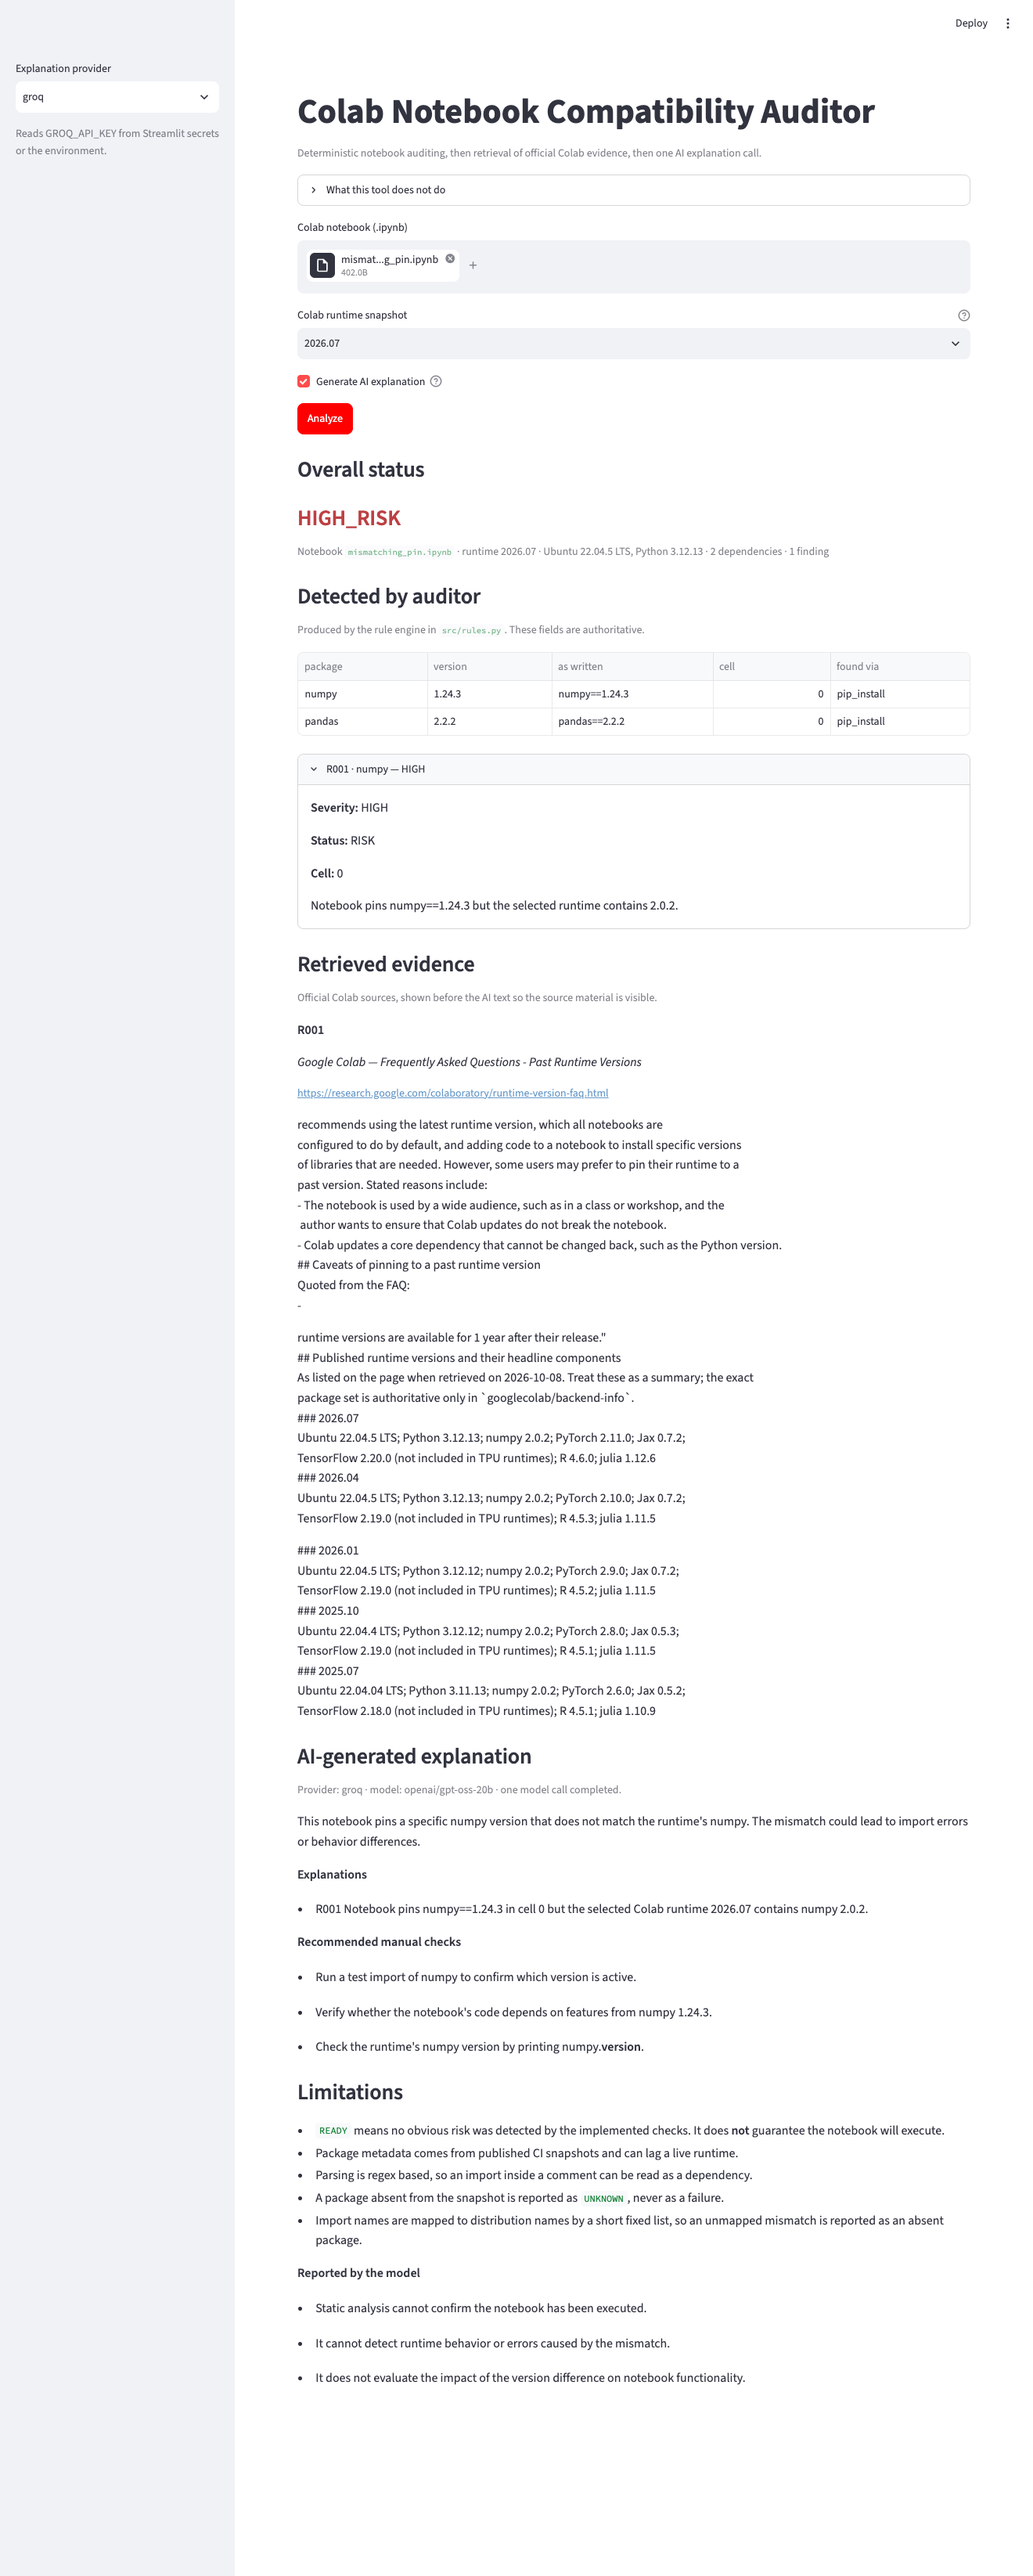
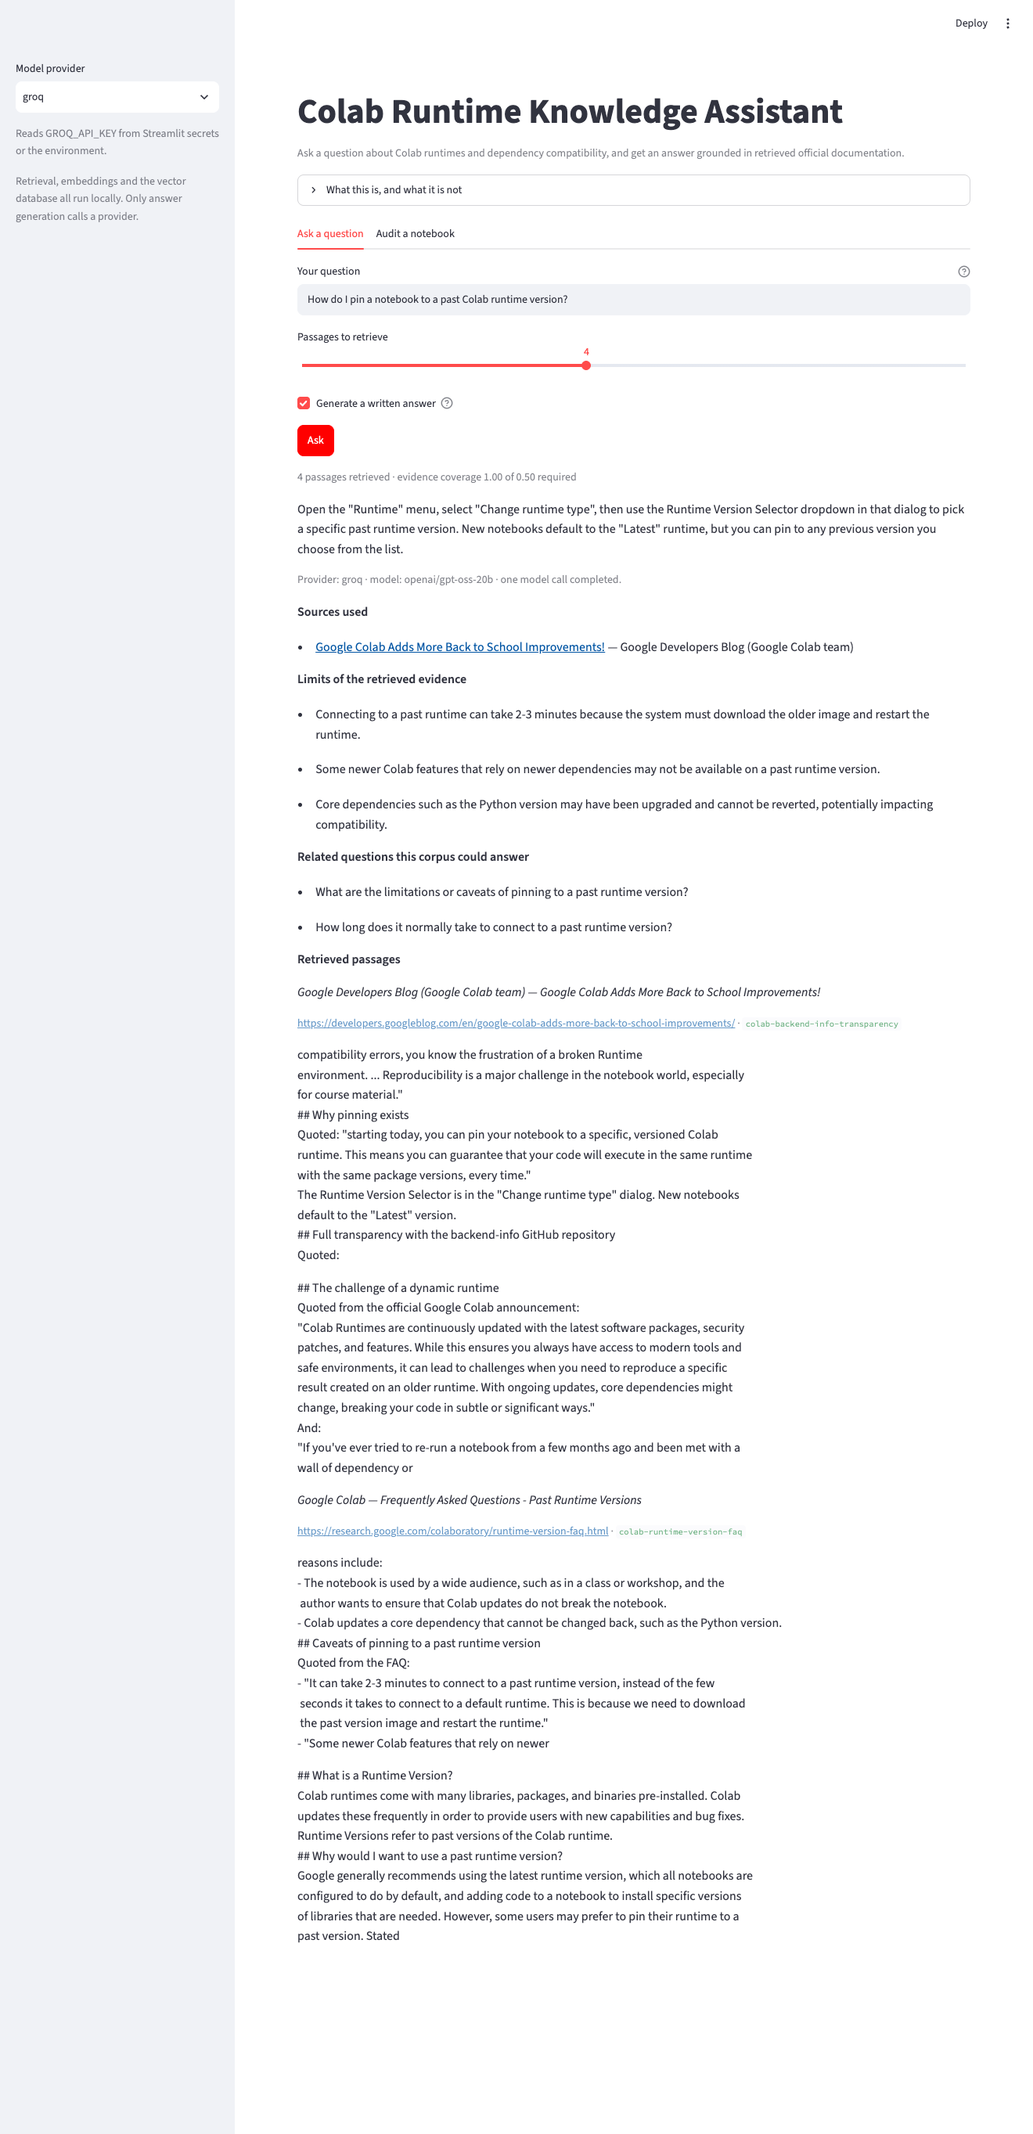
fix: stop reporting passage numbers as fabricated citations
Found by reading the first real screenshot of the new QA mode. The model cited
its claims inline as [1] and [2], then repeated those numbers in used_sources,
and every citation was reported as invented. Sources that were genuinely used
were hidden behind a warning that was itself wrong.

That is a formatting habit, not a hallucination, so resolve_used_sources() now
accepts either form: an exact source id is kept, and a passage number is mapped
back to that passage's source id. Anything still unresolved really was not
retrieved and is still reported, so the check is not weakened into a loophole;
four tests cover ids, numbers, a mix of both, and an invented id smuggled among
valid ones.

The prompt and the schema description now state which field wants ids and which
wants numbers, since the ambiguity was mine to begin with.

Also de-duplicates the 'Sources used' list. Several passages routinely come from
one document, and each was rendered as its own identical bullet.

assets/app-preview.png is now a screenshot of the question-answering mode: the
real application, a real question, a real Groq call, the answer with its inline
[n] citations, the sources it used as links, the limits it reported, and the
four retrieved passages with source and URL. No key or local path is visible.

Suite: 112 passed, 1 skipped.

Changed region(s): [[0.2795, 0.0312, 0.8386, 0.9351], [0.0, 0.0312, 0.1242, 0.0935], [0.7765, 0.2182, 0.9008, 0.2805]]

diff --git a/src/qa.py b/src/qa.py
@@ -157,10 +157,12 @@ Google Colab documentation.
 Rules you must follow:
 - Answer only from the passages. Never use outside knowledge, and never fill a gap
   with what you happen to know about Colab.
-- Cite by passage number, like [1] or [2], immediately after the claim it supports.
+- Cite inline by passage number, like [1] or [2], immediately after the claim it supports.
   Only cite passage numbers that were actually given to you.
-- List in 'used_sources' only the source ids whose passages you actually used. Leave
-  it empty if you used none.
+- In 'used_sources', list the source_id values of the passages you used, copied
+  character for character from the passage headers, for example
+  "colab-runtime-version-faq". Do not put passage numbers such as 1 or 2 in this
+  field; those belong in the inline [n] citations only.
 - If the passages do not answer the question, say so plainly in the first sentence of
   'answer'. Do not substitute a related answer, do not speculate, and do not pad the
   answer with general Colab advice that the passages do not support.
@@ -184,8 +186,9 @@ class AnswerResult(BaseModel):
     )
     used_sources: list[str] = Field(
         description=(
-            "Source ids of the passages actually used, copied exactly from the given "
-            "list. Empty if the passages were not sufficient."
+            "source_id values of the passages actually used, copied exactly from the "
+            "passage headers, e.g. 'colab-runtime-version-faq'. Never passage numbers. "
+            "Empty if the passages were not sufficient."
         )
     )
     follow_ups: list[str] = Field(
@@ -212,6 +215,7 @@ class Answered:
     coverage: float = 0.0
     passages: list[dict] = field(default_factory=list)
     answer: AnswerResult | None = None
+    used_sources: list[str] = field(default_factory=list)
     unsupported_citations: list[str] = field(default_factory=list)
     detail: str = ""
 
@@ -250,15 +254,48 @@ If the passages do not answer it, say so in the first sentence of 'answer' and l
 'used_sources' empty."""
 
 
+def resolve_used_sources(answer: AnswerResult, passages: list[dict]) -> tuple[list[str], list[str]]:
+    """Split the model's cited sources into (resolved ids, unsupported ids).
+
+    Models are unreliable bookkeepers. Asked for source ids they often reply with the
+    passage numbers they cited inline, such as "1, 2", which are not ids at all and
+    would otherwise be reported as invented citations. Both forms are resolved here:
+
+      * an exact source id is kept as-is
+      * a passage number is mapped back to that passage's source id
+
+    Anything left over really was not retrieved, and is reported so the caller can
+    refuse to render it as a reference.
+    """
+    by_id = {p["source_id"] for p in passages}
+    by_number = {
+        str(index): passage["source_id"]
+        for index, passage in enumerate(passages, start=1)
+    }
+
+    resolved: list[str] = []
+    unsupported: list[str] = []
+
+    for entry in answer.used_sources:
+        candidate = str(entry).strip()
+        if candidate in by_id:
+            resolved.append(candidate)
+        elif candidate in by_number:
+            resolved.append(by_number[candidate])
+        else:
+            unsupported.append(candidate)
+
+    # Preserve order while removing duplicates.
+    return list(dict.fromkeys(resolved)), list(dict.fromkeys(unsupported))
+
+
 def unsupported_citations(answer: AnswerResult, passages: list[dict]) -> list[str]:
     """Source ids the model cited that were not actually retrieved.
 
     A citation to a document the user was never shown is worse than no citation, so
     it is surfaced instead of being rendered as a reference link.
     """
-    available = {p["source_id"] for p in passages}
-
-    return sorted({source for source in answer.used_sources if source not in available})
+    return resolve_used_sources(answer, passages)[1]
 
 
 def parse_answer(content, provider: str = DEFAULT_PROVIDER) -> AnswerResult:
@@ -365,13 +402,16 @@ def answer_question(
             detail=f"{type(exc).__name__}: {exc}"[:300],
         )
 
+    used, unsupported = resolve_used_sources(answer, passages)
+
     return Answered(
         question=question,
         status="ok",
         coverage=coverage,
         passages=passages,
         answer=answer,
-        unsupported_citations=unsupported_citations(answer, passages),
+        used_sources=used,
+        unsupported_citations=unsupported,
     )
 
 
@@ -388,5 +428,6 @@ __all__ = [
     "format_passages",
     "is_sufficient",
     "parse_answer",
+    "resolve_used_sources",
     "unsupported_citations",
 ]

diff --git a/tests/test_qa.py b/tests/test_qa.py
@@ -249,6 +249,60 @@ def test_a_citation_to_a_source_that_was_not_retrieved_is_reported():
     assert unsupported_citations(answer, passages) == ["src-invented"]
 
 
+def test_passage_numbers_are_mapped_back_to_their_source_id():
+    """A model that answers with [1], [2] instead of ids must not be called a liar.
+
+    Found by reading the first real screenshot: the model cited inline as [1] and
+    [2], repeated those numbers in used_sources, and every citation was reported as
+    invented. That is a formatting habit, not a hallucination, and flagging it hid
+    the sources that were genuinely used.
+    """
+    passages = [
+        passage("first", "src-one"),
+        passage("second", "src-two"),
+    ]
+    answer = AnswerResult(answer="a", used_sources=["1", "2"], follow_ups=[], caveats=[])
+
+    used, unsupported = qa.resolve_used_sources(answer, passages)
+
+    assert used == ["src-one", "src-two"]
+    assert unsupported == []
+
+
+def test_ids_and_passage_numbers_can_be_mixed():
+    passages = [passage("first", "src-one"), passage("second", "src-two")]
+    answer = AnswerResult(
+        answer="a", used_sources=["src-one", "2"], follow_ups=[], caveats=[]
+    )
+
+    used, unsupported = qa.resolve_used_sources(answer, passages)
+
+    assert used == ["src-one", "src-two"]
+    assert unsupported == []
+
+
+def test_a_genuinely_invented_citation_is_still_caught_among_valid_ones():
+    """Mapping must not become a loophole that accepts anything."""
+    passages = [passage("first", "src-one"), passage("second", "src-two")]
+    answer = AnswerResult(
+        answer="a", used_sources=["1", "colab-release-notes"], follow_ups=[], caveats=[]
+    )
+
+    used, unsupported = qa.resolve_used_sources(answer, passages)
+
+    assert used == ["src-one"]
+    assert unsupported == ["colab-release-notes"]
+
+
+def test_duplicate_citations_are_collapsed():
+    passages = [passage("first", "src-one"), passage("second", "src-one")]
+    answer = AnswerResult(answer="a", used_sources=["1", "2"], follow_ups=[], caveats=[])
+
+    used, _ = qa.resolve_used_sources(answer, passages)
+
+    assert used == ["src-one"]
+
+
 def test_answer_schema_carries_no_finding_or_severity_fields():
     fields = set(AnswerResult.model_fields)
 

diff --git a/app/streamlit_app.py b/app/streamlit_app.py
@@ -190,11 +190,16 @@ def render_answered(
         )
 
     st.markdown("**Sources used**")
-    used = set(answer.used_sources) - set(result.unsupported_citations)
-    if not used:
-        st.info("The model reported using none of the retrieved passages.")
+    if not result.used_sources:
+        st.info(
+            "The model did not attribute the answer to any of the retrieved passages. "
+            "Read the passages below before relying on it."
+        )
+    # Several passages can come from one document, so list each source once.
+    listed = set()
     for passage in result.passages:
-        if passage["source_id"] in used:
+        if passage["source_id"] in result.used_sources and passage["source_id"] not in listed:
+            listed.add(passage["source_id"])
             st.markdown(f"- [{passage['title']}]({passage['url']}) — {passage['source']}")
 
     if answer.caveats:
